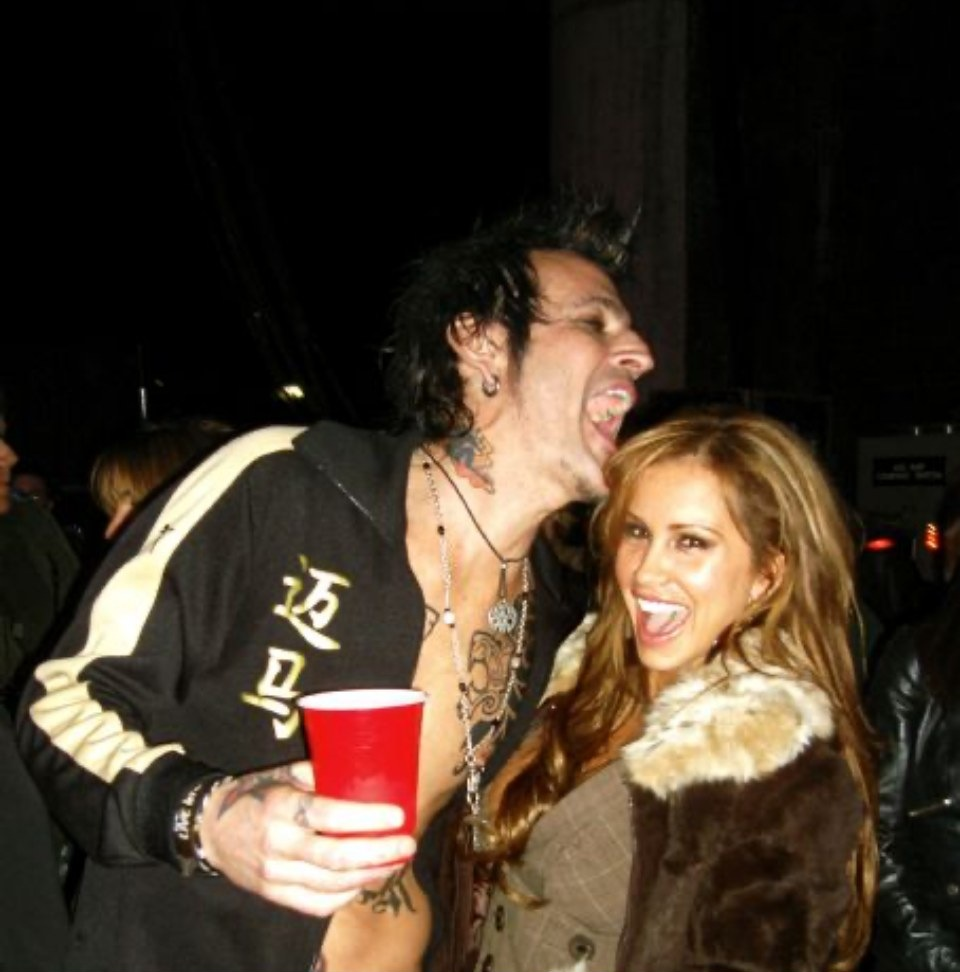
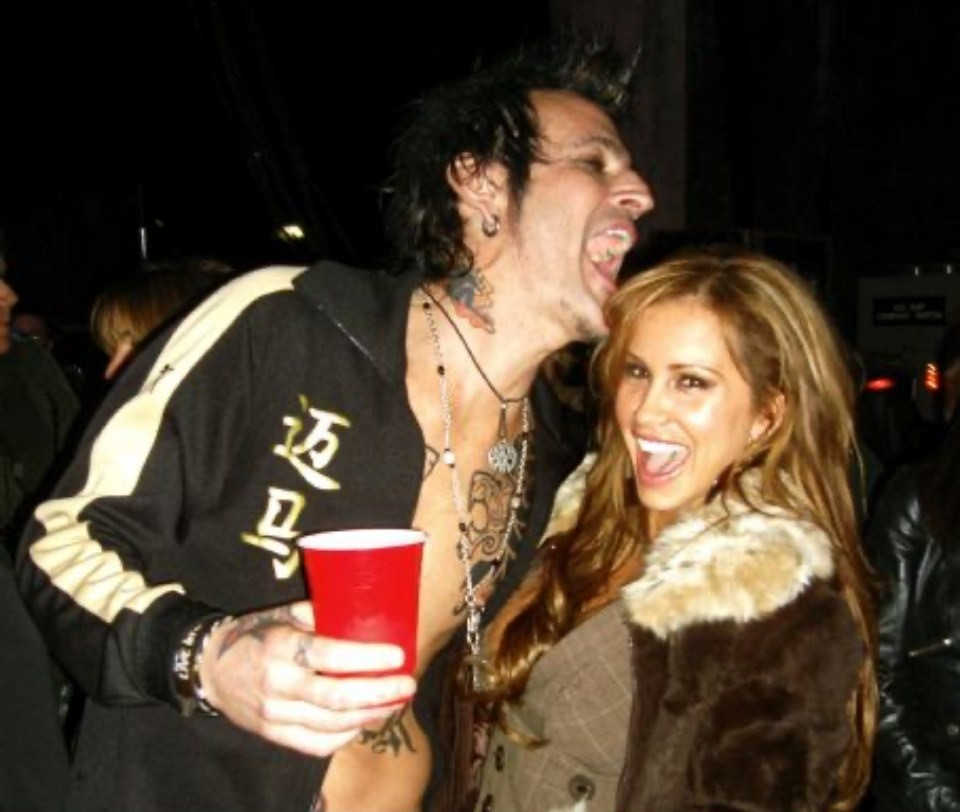
Clean photo crops and pull two watermarked pictures.
Black bars and a photo credit were cropped off. The square blur on the child by the Christmas tree is now a soft oval. The ImageCollect painting and the race-car banner stay off the site.

diff --git a/app/components/PhotoGallery.js b/app/components/PhotoGallery.js
@@ -101,7 +101,7 @@ const HOLLYWOOD = [
     alt: 'With Tommy Lee',
     caption: 'With Tommy Lee',
     width: 960,
-    height: 972,
+    height: 812,
   },
   {
     src: '/assets/gallery-hw/hw_04.jpg',
@@ -287,7 +287,7 @@ const NOV4 = [
   { src: '/assets/gallery-nov4/nov4-07-private-jet.jpg', alt: 'Two kids inside a private jet', caption: '', width: 922, height: 1263 },
   { src: '/assets/gallery-nov4/nov4-08-book-signing.jpg', alt: 'Jen Archuleta at her book signing', caption: '', width: 1155, height: 876 },
   { src: '/assets/gallery-nov4/nov4-09-playboy-collage.jpg', alt: 'Collage of Jen Archuleta from Playboy', caption: '', width: 1320, height: 1202 },
-  { src: '/assets/gallery-nov4/nov4-10-white-bikini-studio.jpg', alt: 'Jen Archuleta in a white bikini, studio photo', caption: '', width: 400, height: 267 },
+  { src: '/assets/gallery-nov4/nov4-10-white-bikini-studio.jpg', alt: 'Jen Archuleta in a white bikini, studio photo', caption: '', width: 400, height: 242 },
   { src: '/assets/gallery-nov4/nov4-11-beach-bikini.jpg', alt: 'Jen Archuleta on the beach in a coral top and blue bikini', caption: '', width: 365, height: 547 },
   { src: '/assets/gallery-nov4/nov4-12-bunny-costume.jpg', alt: 'Jen Archuleta in a bunny costume with her husband at a Playboy party', caption: '', width: 1259, height: 1600 },
   { src: '/assets/gallery-nov4/nov4-13-family-ocean.jpg', alt: 'Jen Archuleta and her family in the ocean', caption: '', width: 1063, height: 1600 },
@@ -313,7 +313,7 @@ const NOV4B = [
   { src: '/assets/gallery-nov4b/nov4b-05-beach-bikini-lookback.jpg', alt: 'Jen Archuleta on the beach', caption: '', width: 1242, height: 1243 },
   { src: '/assets/gallery-nov4b/nov4b-06-couch-fishburne.jpg', alt: 'Jen Archuleta seated on a couch', caption: '', width: 1242, height: 1188 },
   { src: '/assets/gallery-nov4b/nov4b-07-purple-dress-magazine.jpg', alt: 'Jen Archuleta in a purple dress on a magazine page', caption: '', width: 900, height: 1440 },
-  { src: '/assets/gallery-nov4b/nov4b-08-bunny-ears-party.jpg', alt: 'Jen Archuleta at a party in bunny ears', caption: '', width: 920, height: 940 },
+  { src: '/assets/gallery-nov4b/nov4b-08-bunny-ears-party.jpg', alt: 'Jen Archuleta at a party in bunny ears', caption: '', width: 861, height: 940 },
   { src: '/assets/gallery-nov4b/nov4b-09-four-people-beads.jpg', alt: 'Jen Archuleta with friends', caption: '', width: 1040, height: 820 },
   { src: '/assets/gallery-nov4b/nov4b-10-green-top-white-shorts.jpg', alt: 'Jen Archuleta in a green top and white shorts', caption: '', width: 1150, height: 1480 },
   { src: '/assets/gallery-nov4b/nov4b-11-hefner-calendar-signing.jpg', alt: 'Jen Archuleta at a calendar signing', caption: '', width: 930, height: 700 },
@@ -375,6 +375,8 @@ const OUT_OF_GALLERY = new Set([
   '/assets/gallery-new/new_09.jpg',
   '/assets/gallery-new/new_22.jpg',
   '/assets/gallery-nov4/nov4-04-dogs-and-tortoises.jpg',
+  // ImageCollect watermark is tiled across the painting. It cannot be cropped off without cutting her.
+  '/assets/gallery-nov4b/nov4b-16-playboy-painting-imagecollect.jpg',
 ]);
 
 // Jen's captions (Nov 4), matched by file. Empty means no caption line.

diff --git a/app/about/TwentiesCollage.js b/app/about/TwentiesCollage.js
@@ -6,7 +6,6 @@ const PHOTOS = [
   { src: '/assets/twenties/07-ferrari.jpg', width: 1320, height: 907, alt: 'Jen Archuleta with a red Ferrari', wide: true },
   { src: '/assets/twenties/02-mansion-group.jpg', width: 1277, height: 728, alt: 'A group in front of the mansion', wide: true },
   { src: '/assets/twenties/04-hef-party.jpg', width: 1320, height: 1264, alt: 'A party with Hugh Hefner' },
-  { src: '/assets/twenties/08-race-car.jpg', width: 1084, height: 858, alt: 'A Playboy race car', wide: true },
   { src: '/assets/twenties/06-mansion-crowd.jpg', width: 909, height: 605, alt: 'A crowd in front of the mansion', wide: true },
   { src: '/assets/twenties/03-sombreros.jpg', width: 1320, height: 1737, alt: 'Jen Archuleta on the beach in a sombrero' },
   { src: '/assets/twenties/10-fox-pool.jpg', width: 1320, height: 1334, alt: 'Jen Archuleta at a pool during a FOX interview' },

diff --git a/docs/photo-changes-2026-11-05.md b/docs/photo-changes-2026-11-05.md
@@ -67,6 +67,10 @@ Three photos that were sitting on their own now show once, in the About Me carou
 | Braids, sunglasses, kissing a puppy | `jen-fun2.jpeg` | Last slides in the carousel. Removed from the page row. |
 | White sports top, studio | `jen-fitness.jpg` | Last slides in the carousel. Removed from the page row. |
 
+## Photo audit, November 5
+
+The empty black above Tommy Lee was cropped off `hw_03.jpg`. The side bars were cropped off the bunny-ears party photo. The "Photo by Alex Ardenti" credit was cropped off the white bikini studio photo. Heads stayed in frame. The hard square on the child by the Christmas tree is now a soft oval. The ImageCollect painting and the race-car photo with a PLAYBOY banner across the middle were taken off the site. Those marks sit in the middle of the pictures, so they could not be cropped off.
+
 ## Childhelp WINGS photo
 
 The phone black bars and the home-indicator line were cropped off `childhelp-stage-full.png`. Heads and feet stay. Saved as `childhelp-wings.jpg`, 1200 pixels wide. It is the fourth photo under "Want to get involved with me?" No video was added.
